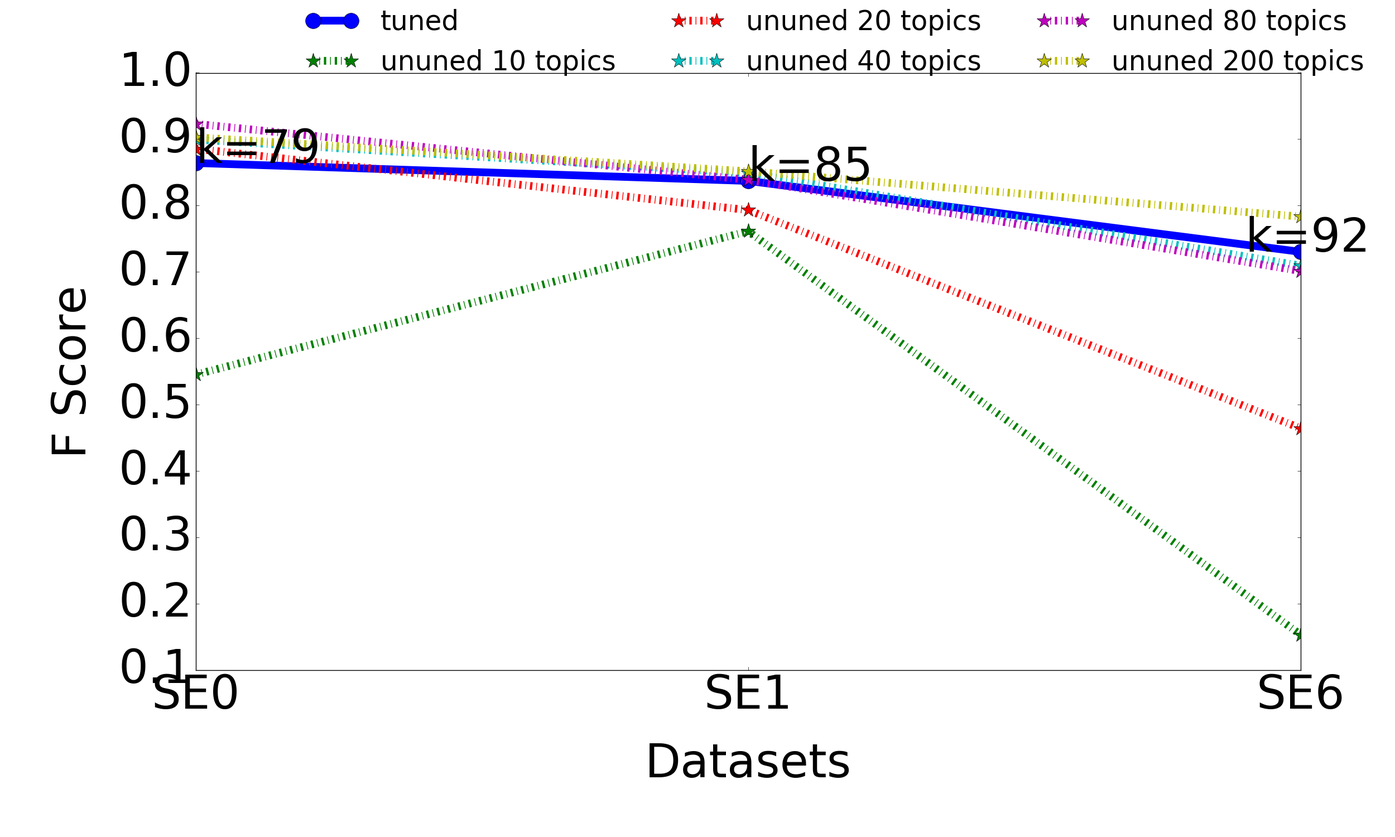
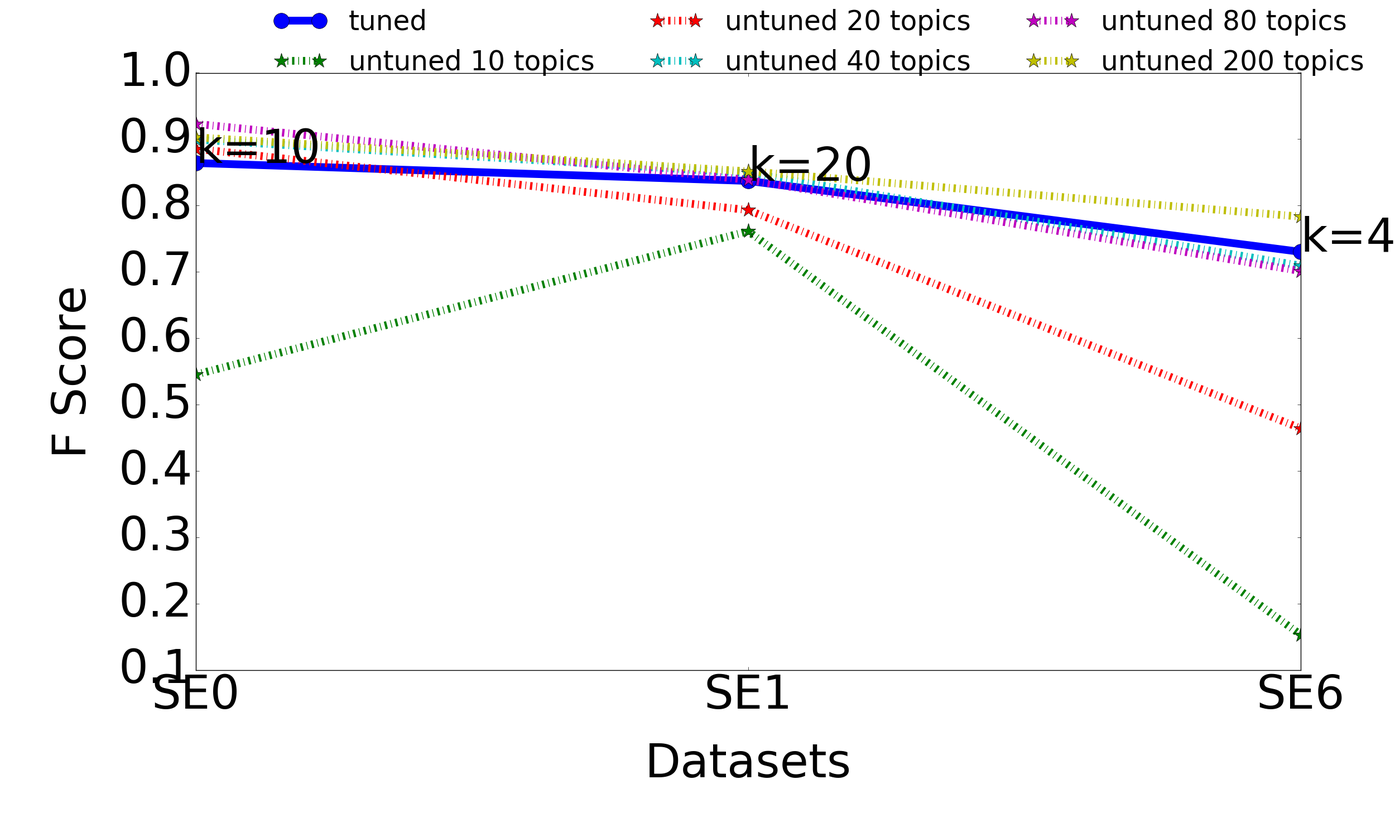
save

diff --git a/src/2016-09-05/draw.py b/src/2016-09-05/draw.py
@@ -15,7 +15,7 @@ import matplotlib.colors as colors
 
 if __name__ == '__main__':
 
-    fileB = ['SE0' ,'SE6']
+    fileB = ['SE0' ,'SE1','SE6']
     '''F_final1={}
     current_dic1={}
     para_dict1={}
@@ -35,32 +35,36 @@ if __name__ == '__main__':
                 #time1 = dict(time1.items() + time.items())
     print(F_final1)'''
     topics=[10,20,40,80,200]
-    words_tuned = {
-        'SE6': [0.46834345186470078, 0.46572934973637958, 0.46275197195442597, 0.4773735581188997, 0.47845206684256814,
-                0.46099912357581069, 0.46596858638743455, 0.48141592920353982, 0.46666666666666673, 0.4776119402985074,
-                0.48263888888888884, 0.46789797713280568, 0.46678635547576303, 0.46986899563318779, 0.46515679442508706,
-                0.47028423772609829, 0.47419072615923014, 0.46354166666666663, 0.47729296527159393, 0.46732318710832582,
-                0.48105726872246701, 0.46495119787045258, 0.46437994722955134, 0.47326906222611748,
-                0.46885813148788924],
-        'SE8': [0.054567502021018593, 0.072573839662447265, 0.07243572021011889, 0.073374096720400225,
-                0.073492286115007022, 0.04949421965317919, 0.072576177285318552, 0.074136478517270427,
-                0.073280721533258181, 0.07239057239057238, 0.055250863294738981, 0.073991655076495119,
-                0.073378839590443695, 0.072747313309451639, 0.071428571428571438, 0.055938386704499389,
-                0.048673376029277217, 0.07178631051752922, 0.073280721533258181, 0.072077028885832187,
-                0.070973107845855282, 0.073537604456824515, 0.048540145985401455, 0.055969398026978055,
-                0.07277856135401975],
-        'SE0': [0.41618497109826591, 0.87398373983739841, 0.90322580645161299, 0.41919686581782561, 0.90364025695931482,
-                0.42084942084942079, 0.42189054726368158, 0.41658440276406711, 0.42885375494071148, 0.42292490118577075,
-                0.90638297872340423, 0.91331923890063438, 0.41494591937069808, 0.41425818882466281, 0.41650294695481338,
-                0.41325536062378165, 0.9098712446351932, 0.42430278884462153, 0.41722488038277505, 0.8693877551020408,
-                0.42125984251968496, 0.42084562438544737, 0.42207163601161657, 0.42084562438544737,
-                0.90128755364806856]}
-    words_untuned={'SE6': {40: [0.42146341463414638, 0.46803377563329313, 0.51094890510948898, 0.24522845575477153, 0.41487279843444225, 0.50368188512518408, 0.41739130434782606, 0.50305250305250304, 0.41385948026948993, 0.48837209302325585, 0.41910331384015598, 0.42465753424657532, 0.42348411934552455, 0.49557522123893805, 0.49493487698986971, 0.48862275449101805, 0.48484848484848481, 0.49275362318840582, 0.48134777376654642, 0.50147492625368728, 0.48721071863581, 0.47058823529411764, 0.5, 0.42607003891050582, 0.47449584816132856], 80: [0.67787114845938368, 0.51891891891891895, 0.51592356687898089, 0.48695652173913045, 0.66946778711484589, 0.54421768707482998, 0.63684210526315788, 0.66019417475728148, 0.66104078762306606, 0.50448654037886342, 0.55981416957026708, 0.60280373831775702, 0.65909090909090906, 0.62015503875968991, 0.6732117812061712, 0.55693348365276207, 0.45367965367965374, 0.66760168302945311, 0.53679653679653683, 0.65811965811965811, 0.66855524079320117, 0.61712846347607053, 0.60869565217391308, 0.59079903147699764, 0.6629526462395543], 10: [0.41151685393258425, 0.39861591695501725, 0.40938166311300639, 0.40531097134870725, 0.39555863983344902, 0.41058655221745355, 0.40609840609840603, 0.1874414245548266, 0.40248104755341141, 0.39268121041520054, 0.40845070422535207, 0.3977746870653685, 0.40446304044630405, 0.40055826936496863, 0.19840510366826156, 0.40082930200414646, 0.41014799154334042, 0.41226818830242506, 0.39525139664804465, 0.40193370165745862, 0.40278745644599295, 0.40793201133144469, 0.40281690140845067, 0.40305767894371092, 0.40360610263522884], 20: [0.39292997960571041, 0.55601659751037347, 0.54777070063694266, 0.56076759061833692, 0.5547290116896918, 0.54621848739495804, 0.562962962962963, 0.55381400208986409, 0.55260361317747075, 0.39071038251366119, 0.54008438818565396, 0.39972714870395637, 0.55310199789695069, 0.3986577181208053, 0.55165069222577212, 0.55378061767838127, 0.39694656488549618, 0.54240837696335076, 0.39331103678929769, 0.55485232067510548, 0.39434724091520867, 0.55685441020191284, 0.55179704016913322, 0.55252100840336138, 0.55378061767838127], 200: [0.42392260334212833, 0.47835497835497837, 0.45245245245245247, 0.42745098039215684, 0.46558704453441296, 0.47473560517038776, 0.47034764826175868, 0.44379844961240317, 0.46123650637880281, 0.43371212121212122, 0.50454545454545452, 0.42379182156133832, 0.48979591836734693, 0.48504273504273504, 0.46243902439024392, 0.38839645447219978, 0.43856332703213613, 0.54145077720207258, 0.45914396887159536, 0.43024302430243022, 0.43364485981308409, 0.48079034028540069, 0.40158102766798426, 0.51388888888888895, 0.52071005917159763]}, 'SE0': {40: [0.58386683738796419, 0.71475409836065573, 0.70287539936102228, 0.72104404567699842, 0.707395498392283, 0.71197411003236255, 0.72374798061389345, 0.71869918699186985, 0.7126805778491172, 0.69887278582930756, 0.71497584541062797, 0.71474358974358987, 0.72131147540983609, 0.70418006430868163, 0.71082390953150243, 0.72025723472668812, 0.71052631578947367, 0.71728594507269794, 0.71197411003236244, 0.70588235294117652, 0.70399999999999996, 0.71175523349436398, 0.72577996715927751, 0.7142857142857143, 0.6820276497695853], 80: [0.87526427061310774, 0.63836477987421392, 0.85772357723577231, 0.6191860465116279, 0.5643564356435643, 0.64890282131661436, 0.64263322884012541, 0.87866108786610886, 0.54712041884816753, 0.89684210526315788, 0.65414710485133021, 0.64396284829721362, 0.66055045871559626, 0.88085106382978728, 0.63452566096423013, 0.63580246913580252, 0.65015479876160986, 0.88322717622080671, 0.66459627329192539, 0.88034188034188043, 0.88841201716738194, 0.6553323029366307, 0.64939024390243905, 0.86736842105263157, 0.87846481876332616], 10: [0.54461181923522595, 0.55188679245283012, 0.55041518386714106, 0.55714285714285705, 0.54823529411764704, 0.54166666666666663, 0.55410225921522005, 0.54716981132075471, 0.55213270142180093, 0.55726092089728452, 0.55791962174940901, 0.56763285024154586, 0.53624856156501721, 0.54652532391048292, 0.54460093896713613, 0.56428571428571428, 0.5512367491166078, 0.54332552693208425, 0.55188679245283012, 0.54161781946072673, 0.55648038049940551, 0.54714784633294533, 0.54906542056074759, 0.55303933253873661, 0.54652532391048292], 20: [0.90871369294605808, 0.92339544513457561, 0.91476091476091481, 0.91958762886597933, 0.91060291060291065, 0.91322314049586772, 0.91991786447638613, 0.90947368421052632, 0.92753623188405798, 0.90683229813664601, 0.92592592592592582, 0.90871369294605808, 0.92148760330578516, 0.90794979079497906, 0.91286307053941906, 0.91511387163561075, 0.91022964509394577, 0.91991786447638613, 0.91666666666666663, 0.91511387163561064, 0.91735537190082639, 0.9064449064449065, 0.91213389121338928, 0.92148760330578516, 0.91958762886597933], 200: [0.71454880294659295, 0.63897763578274758, 0.66786355475763015, 0.54107648725212454, 0.66666666666666663, 0.74296435272045036, 0.71755725190839692, 0.65259740259740251, 0.74003795066413669, 0.48285714285714287, 0.5270092226613966, 0.73904761904761895, 0.5785714285714284, 0.7078039927404719, 0.73069679849340874, 0.72595281306715065, 0.64214046822742477, 0.68092691622103385, 0.64965986394557818, 0.70242214532871972, 0.66901408450704225, 0.68100358422939067, 0.73189823874755378, 0.60124610591900307, 0.65217391304347838]}, 'SE8': {40: [0.073570168808264044, 0.1728395061728395, 0.17505168849069608, 0.17602217602217601, 0.072518129532383097, 0.14092140921409216, 0.17688022284122562, 0.18020477815699659, 0.07134010403765173, 0.17295813315030886, 0.071375093586224111, 0.17565698478561548, 0.17391304347826086, 0.089602139752591098, 0.068560235063663072, 0.17647058823529413, 0.089356110381077533, 0.17481073640743289, 0.090695330870003366, 0.11143210895583987, 0.1797752808988764, 0.073250820914372322, 0.17567567567567569, 0.094674556213017763, 0.17088174982911825], 80: [0.13603949533735601, 0.069522643818849456, 0.11437565582371459, 0.13718018508437671, 0.089624267493967597, 0.085696282293635781, 0.13538800220143093, 0.1396103896103896, 0.089237057220708446, 0.089773877826527168, 0.10470347648261759, 0.076281287246722285, 0.10999563509384548, 0.099884748367268544, 0.073403980356681317, 0.11436170212765957, 0.088994565217391311, 0.06812767984754646, 0.10683229813664596, 0.13631406761177753, 0.13633864760857614, 0.12022367194780989, 0.071816068199431676, 0.078253473206691238, 0.13670613562970937], 10: [0.046683046683046688, 0.087442472057856685, 0.086757990867579904, 0.086759469083845908, 0.046994202014037229, 0.046610814927646606, 0.086112010359339589, 0.047051540009286484, 0.088033909357678519, 0.087520259319286864, 0.046383887702166615, 0.087782509007533566, 0.046483366246392224, 0.04742109314857583, 0.087097822554436127, 0.087919244545750563, 0.088536504790221349, 0.086167800453514742, 0.046539923954372613, 0.046611468874578343, 0.046390965969784835, 0.086703332254933665, 0.087126137841352397, 0.046703296703296704, 0.047348193697156031], 20: [0.04895920066611157, 0.076314301865460718, 0.051201671891327065, 0.072408118486012057, 0.073971078976640722, 0.073784237003912789, 0.050615357947651242, 0.050580287545470295, 0.05133577789418544, 0.050953206239168117, 0.048333333333333332, 0.050086956521739126, 0.075146117450598376, 0.074301675977653636, 0.051862164984336927, 0.05090655509065551, 0.050379572118702552, 0.051077136900625437, 0.074299972276129736, 0.051183172655565295, 0.050611120674814943, 0.049039098740888, 0.073636874648679018, 0.05074365704286965, 0.074426412982652485], 200: [0.12862414338429098, 0.15091946734305642, 0.11196388261851016, 0.18125960061443933, 0.11300448430493273, 0.087811731647348082, 0.30013280212483401, 0.12654473554127532, 0.12802582033351262, 0.14993646759847523, 0.1006036217303823, 0.11263858093126386, 0.094290976058931858, 0.30664857530529172, 0.26923076923076922, 0.14977973568281938, 0.10752688172043012, 0.1426126640045636, 0.12603305785123967, 0.20050547598989049, 0.13638904415874792, 0.1519949335022166, 0.10549070471249458, 0.38974358974358975, 0.098552991787250688]}}
-    #topic topics
-    topic=[79, 61]
+    topics_tuned = {'SE6': [0.72972972972972971, 0.64516129032258063, 0.74884437596301989, 0.71988388969521033, 0.72834067547723946,
+                0.73235294117647054, 0.63262764632627633, 0.61032863849765251, 0.75384615384615383, 0.73590504451038585,
+                0.74809160305343514, 0.76470588235294124, 0.66491458607095921, 0.65703022339027595, 0.73025335320417284,
+                0.57297297297297312, 0.73076923076923084, 0.69262865090403336, 0.73529411764705888, 0.7332339791356185,
+                0.63546798029556639, 0.75308641975308643, 0.73076923076923084, 0.73798449612403105,
+                0.61737089201877937],'SE8': [0.075053995680345556, 0.075400054244643341, 0.086403215003348965, 0.076533483398987051,
+                0.091476091476091481, 0.091994382022471899, 0.087356321839080459, 0.068565910188314816,
+                0.086819754639823846, 0.060174832282984349, 0.07518796992481204, 0.072437708707937323,
+                0.068600252206809584, 0.093640810621942697, 0.086130462317922735, 0.065991044072590141,
+                0.09253945480631276, 0.069773115393998525, 0.087860496311200548, 0.080344332855093251,
+                0.080962158990906419, 0.088070982582977325, 0.075555555555555556, 0.095614665708123645,
+                0.064473970812459161],'SE3': [0.28073339344755033, 0.27932618683001531, 0.25964517037454238, 0.20441397043068354, 0.24214559386973181,
+                0.24915121441629667, 0.21047937569676697, 0.22713864306784659, 0.2780487804878049, 0.27744270205066346,
+                0.22196638268478008, 0.23403217942467092, 0.26239907727797002, 0.25255239118753359, 0.2532485485208737,
+                0.24524863316844572, 0.20922140060896041, 0.28114630467571639, 0.27066356228172295, 0.23884514435695539,
+                0.29409846755787417, 0.23057644110275685, 0.24443293630243398, 0.22089825847846012,
+                0.22730664013926882],'SE1': [0.83763277693474947, 0.82963520120346002, 0.82383419689119175, 0.8297470743676858, 0.8394408764639214,
+                0.84459717449408167, 0.82070240295748609, 0.82261640798226165, 0.84452975047984646, 0.83929931454683926,
+                0.83027351067815658, 0.84118541033434646, 0.80738595220854459, 0.83851402577710388, 0.83720930232558144,
+                0.80916030534351147, 0.84907120743034048, 0.82781954887218046, 0.83434190620272319, 0.84024114544084394,
+                0.83712121212121215, 0.84502698535080956, 0.82348596750369274, 0.84461538461538455,
+                0.82418812989921608],'SE0': [0.87346938775510208, 0.86652977412731003, 0.76338514680483582, 0.76842105263157889, 0.77217391304347827,
+                0.86938775510204069, 0.87221095334685594, 0.86409736308316432, 0.78928571428571437, 0.74036850921273045,
+                0.86868686868686884, 0.87346938775510197, 0.78014184397163122, 0.76223776223776218, 0.88391038696537683,
+                0.87755102040816335, 0.77385159010600724, 0.77680140597539538, 0.76573426573426573, 0.8688524590163933,
+                0.68404907975460127, 0.87603305785123964, 0.74581939799331098, 0.87242798353909468,
+                0.86761710794297353]}
 
-    # topic words
-    topic = [79, 61]
+    topics_untuned={'SE6': {40: [0.6820566631689402, 0.70549450549450543, 0.67432150313152406, 0.73721759809750309, 0.7302325581395348, 0.69555796316359686, 0.70281995661605201, 0.69621621621621621, 0.68220338983050854, 0.76052948255114317, 0.72389791183294661, 0.71266968325791857, 0.70472008781558726, 0.70021881838074396, 0.68067226890756305, 0.71829405162738491, 0.64822134387351782, 0.71557562076749437, 0.71140939597315422, 0.71927846674182627, 0.70939226519337018, 0.71493212669683248, 0.72789896670493692, 0.67785939139559281, 0.7235023041474653], 80: [0.68640350877192979, 0.72055427251732118, 0.69222343921139096, 0.73278879813302211, 0.69680264608599785, 0.71662763466042156, 0.71331828442437928, 0.7121387283236994, 0.67785234899328861, 0.69706840390879476, 0.68729281767955797, 0.68722466960352424, 0.7406513872135102, 0.72517321016166281, 0.70132743362831862, 0.71526195899772216, 0.7057471264367815, 0.6860215053763441, 0.70191226096737902, 0.70996640537514, 0.69273743016759781, 0.69230769230769218, 0.69956140350877194, 0.67089947089947077, 0.71493212669683248], 10: [0.14631522323830018, 0.20015396458814474, 0.15320796460176989, 0.15145736856442388, 0.20491803278688525, 0.14994425863991082, 0.14587332053742802, 0.13637341363734135, 0.21167576648467032, 0.15484219045049905, 0.15697346132128739, 0.20963968179691159, 0.15342615342615343, 0.16020821283979178, 0.15039649986327591, 0.14745529573590097, 0.15066630405221651, 0.16492949110974864, 0.15243243243243246, 0.14830508474576271, 0.15172786177105835, 0.2077125328659071, 0.1586851799376594, 0.20342771982116242, 0.14935949850095392], 20: [0.49352890422778262, 0.45054151624548738, 0.46042120551924481, 0.45207439198855509, 0.46412213740458019, 0.42010309278350516, 0.41585445094217022, 0.48675496688741715, 0.48784440842787685, 0.47887323943661969, 0.46334310850439875, 0.42289562289562288, 0.45199409158050219, 0.48513302034428796, 0.49238578680203049, 0.43258042436687194, 0.44922164566345441, 0.49306122448979595, 0.48995983935742965, 0.46431254695717505, 0.45434938892882815, 0.4756756756756757, 0.4846029173419773, 0.46539027982326953, 0.46785437645236255], 200: [0.79276773296244796, 0.77656675749318804, 0.78295605858854855, 0.74634146341463414, 0.77154582763337887, 0.783448275862069, 0.78335724533715934, 0.78869448183041724, 0.8032128514056226, 0.76227390180878551, 0.76000000000000001, 0.7857142857142857, 0.78639455782312928, 0.78779069767441867, 0.75634517766497467, 0.77823129251700685, 0.78877005347593576, 0.78087649402390447, 0.77835051546391754, 0.78821879382889193, 0.74250000000000005, 0.78848920863309346, 0.77353689567430017, 0.80218281036834926, 0.79551820728291323]}, 'SE8': {40: [0.1583949313621964, 0.1659988551803091, 0.18598559266535691, 0.18181818181818185, 0.18904109589041099, 0.19665271966527195, 0.15153035624686403, 0.18656229615133724, 0.19021364576154376, 0.14984709480122327, 0.18950238582140425, 0.14878542510121459, 0.1812538795779019, 0.15803814713896458, 0.17974683544303796, 0.13209219858156027, 0.1819322459222083, 0.16066481994459839, 0.15832875206157229, 0.2391713747645951, 0.17696969696969694, 0.16410256410256407, 0.17794486215538846, 0.18320610687022904, 0.17729204614450514], 80: [0.14917127071823202, 0.13107445385644226, 0.15524079320113315, 0.15666094911377931, 0.12626931567328917, 0.11769480519480519, 0.14293221229637412, 0.14764397905759161, 0.1628588166373755, 0.13457076566125289, 0.14670184696569921, 0.1359773371104816, 0.16806722689075629, 0.11812627291242363, 0.13434247871333962, 0.16775728732897083, 0.12489451476793248, 0.1242603550295858, 0.17424727738629084, 0.13169114163903364, 0.13580246913580249, 0.14421052631578948, 0.12859712230215828, 0.14278429372768994, 0.14570230607966458], 10: [0.09903121636167922, 0.076078221269756233, 0.07297367735209799, 0.067651262505955212, 0.068424803991446889, 0.079190751445086707, 0.054779206260480717, 0.077368421052631572, 0.098721590909090912, 0.097544338335607092, 0.060501296456352625, 0.09293193717277487, 0.10235026535253981, 0.089680589680589673, 0.10087719298245613, 0.094545454545454544, 0.090346534653465344, 0.098715348208248815, 0.10235934664246824, 0.080215504340017965, 0.091900826446280989, 0.094164456233421748, 0.050203527815468107, 0.095759233926128604, 0.097375690607734808], 20: [0.11910013233348039, 0.092686002522068101, 0.12303422756706753, 0.080521689821377931, 0.115736885928393, 0.11878574571051474, 0.1115506329113924, 0.086820737039350407, 0.10261854210898796, 0.11229508196721313, 0.11471321695760597, 0.077783995523223293, 0.11340659340659341, 0.11729706757331065, 0.10454217736121124, 0.1154964686331533, 0.095036958817317857, 0.1047197640117994, 0.12363636363636363, 0.11003487020534677, 0.10440835266821345, 0.10779816513761467, 0.11566858080393766, 0.071481390189795421, 0.12197309417040361], 200: [0.16203703703703706, 0.14285714285714285, 0.17368762151652622, 0.15393073117097306, 0.17379117028731608, 0.14601542416452443, 0.1534025374855825, 0.16626213592233011, 0.16965944272445818, 0.17127799736495392, 0.16118047673098754, 0.1806981519507187, 0.15138121546961325, 0.1492063492063492, 0.16187050359712229, 0.22731439046746105, 0.16397366846199882, 0.16579710144927534, 0.17510259917920654, 0.14411612234318297, 0.1488569909622541, 0.16431924882629109, 0.16688741721854305, 0.17731421121251631, 0.15341229554427521]}, 'SE3': {40: [0.26710275279367679, 0.29519379844961235, 0.29449345908122909, 0.36909527622097682, 0.2535649468498834, 0.31049041896719715, 0.3002832861189802, 0.31761112996267393, 0.25742574257425743, 0.30059617194854094, 0.27452085682074406, 0.32551817872918792, 0.24841571609632443, 0.33738384560400286, 0.33170391061452509, 0.28689492325855964, 0.33568406205923834, 0.25622022233986236, 0.30695596681557119, 0.31603459747172324, 0.24855925833124526, 0.29663608562691129, 0.30520304568527917, 0.36202920830130669, 0.27908326080649842], 80: [0.38968253968253963, 0.42549450549450546, 0.4570886676149834, 0.48800408371618181, 0.50454302512025651, 0.48678861788617883, 0.44454843238184377, 0.47548291233283801, 0.43154630039875935, 0.42992338891392523, 0.4572769953051643, 0.46444121915820025, 0.49282786885245905, 0.39583333333333331, 0.50131095962244354, 0.48740359897172231, 0.42001710863986319, 0.50562399571505079, 0.4613180515759312, 0.39065646395489328, 0.47409579667644186, 0.40064882400648827, 0.45895343254920784, 0.46531791907514447, 0.44788732394366193], 10: [0.13289219740832645, 0.13648217907852797, 0.16769856713249603, 0.12251071338542978, 0.17375499818247911, 0.12345679012345678, 0.1750317086428701, 0.16957153231663033, 0.15136320902538392, 0.17396041401852189, 0.12728468113083496, 0.12154420921544209, 0.19707565162110616, 0.18286592393392243, 0.12080536912751678, 0.13456352022711143, 0.19020753576465846, 0.12971382722653116, 0.13098912897597642, 0.15903775476110923, 0.14060216311020168, 0.12000998003992015, 0.13893805309734511, 0.18467583497053042, 0.14306741242272591], 20: [0.28824427480916032, 0.24770173646578139, 0.24452191235059764, 0.30504148053605612, 0.25507246376811593, 0.23122482823975363, 0.25328862522568996, 0.3061291379875451, 0.25873015873015875, 0.24099999999999999, 0.24601366742596814, 0.21911111111111112, 0.27462014631401238, 0.31679129843643777, 0.2591380250954719, 0.24070021881838072, 0.28537170263788963, 0.25051440329218111, 0.2280130293159609, 0.29320024953212726, 0.26951931091969988, 0.25976825653462676, 0.27370812038614423, 0.27393310265282583, 0.25444096133751309], 200: [0.46631119728550652, 0.48654139156932447, 0.52613827993254636, 0.51707317073170733, 0.49947643979057588, 0.46005774783445624, 0.5034519383961763, 0.45739046701974012, 0.52159650082012021, 0.51769911504424782, 0.49766233766233764, 0.50236966824644547, 0.50556438791732905, 0.50638297872340432, 0.55477031802120136, 0.53137365743357823, 0.51282051282051277, 0.45330830595964333, 0.55772646536412074, 0.48093543467208949, 0.48275862068965519, 0.46358876725368864, 0.55319148936170215, 0.530093870789619, 0.44434180138568136]}, 'SE1': {40: [0.83875794986906105, 0.844106463878327, 0.86416861826697899, 0.83599851245816281, 0.85013415101571488, 0.83958020989505244, 0.86411149825783973, 0.85059228123805874, 0.82648908620051798, 0.86213592233009695, 0.86013173188686554, 0.82062454611474211, 0.84084084084084076, 0.87932421560740137, 0.84869169510807718, 0.84012066365007532, 0.85009487666034156, 0.84885496183206099, 0.86564825695260472, 0.83960843373493976, 0.84318181818181814, 0.84940907357987039, 0.84551620195930666, 0.85593220338983056, 0.86370716510903423], 80: [0.84056857472147528, 0.7985714285714286, 0.84937888198757749, 0.84302546560243263, 0.84371417653802072, 0.83993902439024393, 0.82195845697329384, 0.83403281190385348, 0.84726000777302757, 0.82832777159807203, 0.84482094724682322, 0.83870967741935487, 0.82725241995532395, 0.83579825559347742, 0.83547169811320754, 0.849441663457836, 0.83978739559605153, 0.85103072734344609, 0.84724894190073097, 0.8252427184466018, 0.85147744945567649, 0.83756152972358955, 0.8295412159641925, 0.83472327520849121, 0.8308157099697886], 10: [0.7677044132740336, 0.74499507712504098, 0.75775978407557354, 0.75871313672922258, 0.75717662951705511, 0.74366567949983542, 0.76241973639743155, 0.7487553932957185, 0.77178423236514526, 0.77033985581874365, 0.7612244897959185, 0.76322930800542732, 0.73018928456849552, 0.77316735822959892, 0.76190476190476186, 0.77493074792243777, 0.74424720578566739, 0.76494565217391308, 0.75275275275275277, 0.73974401050213334, 0.79472558802565929, 0.73026103770544637, 0.77129120879120883, 0.7284427284427285, 0.7694938440492477], 20: [0.78556412053258584, 0.775425199583478, 0.82983508245877058, 0.78704681450193592, 0.79036827195467418, 0.80874316939890711, 0.79294532627865955, 0.80404186214363049, 0.77839335180055402, 0.81429624170965353, 0.79913451135953839, 0.78751753155680215, 0.79784560143626571, 0.80759401241328943, 0.76416694944010866, 0.82620022329735754, 0.79194630872483229, 0.78700105969622036, 0.80215053763440858, 0.7931648273406906, 0.78538812785388146, 0.80739934711643091, 0.79123984457788765, 0.80085959885386815, 0.81942899517982937], 200: [0.8548895899053629, 0.84153846153846146, 0.84206471494607082, 0.860759493670886, 0.85296442687747043, 0.84523350057892699, 0.85579196217494091, 0.85154719937328638, 0.846839860411012, 0.84729835552075183, 0.86473429951690817, 0.84081319524357501, 0.84841453982985315, 0.85217391304347834, 0.84701348747591521, 0.85916601101494894, 0.85714285714285721, 0.84410058027079304, 0.85635359116022103, 0.8475232198142415, 0.85522151898734178, 0.84109272797229706, 0.83944954128440363, 0.86112216474333458, 0.85930047694753575]}, 'SE0': {40: [0.89142857142857146, 0.90466531440162268, 0.88073394495412838, 0.89230769230769225, 0.90766208251473479, 0.89788053949903668, 0.90196078431372551, 0.90909090909090906, 0.89980353634577603, 0.89393939393939392, 0.89940828402366857, 0.87615526802218113, 0.88931297709923651, 0.90204081632653066, 0.90448343079922022, 0.87476635514018686, 0.91242362525458243, 0.89443378119001915, 0.89961389961389959, 0.89312977099236646, 0.89883268482490275, 0.91015625, 0.90058479532163749, 0.90476190476190477, 0.88636363636363624], 80: [0.92024539877300615, 0.92050209205020916, 0.93333333333333335, 0.9243353783231083, 0.91944990176817298, 0.92338709677419351, 0.91599999999999993, 0.9218106995884775, 0.9218106995884775, 0.92842535787321068, 0.93762575452716301, 0.92215568862275454, 0.9173553719008265, 0.92622950819672134, 0.92307692307692313, 0.92916666666666659, 0.91097308488612827, 0.93041749502982107, 0.92148760330578516, 0.92929292929292928, 0.91732283464566933, 0.92525252525252522, 0.93167701863354035, 0.92813141683778233, 0.91322314049586784], 10: [0.54152445961319684, 0.57402597402597411, 0.53917050691244239, 0.5512367491166078, 0.52048726467331119, 0.52727272727272723, 0.56029232643118143, 0.55882352941176472, 0.54441913439635536, 0.54524089306698009, 0.55339805825242716, 0.52631578947368418, 0.55421686746987953, 0.54651162790697672, 0.54524089306698009, 0.5423728813559322, 0.54375729288214703, 0.52559726962457343, 0.55555555555555558, 0.54396248534583824, 0.56000000000000005, 0.5245535714285714, 0.55474452554744524, 0.54800936768149877, 0.54004576659038894], 20: [0.84135472370766495, 0.85607476635514013, 0.90180360721442887, 0.90135396518375244, 0.87850467289719625, 0.8529945553539019, 0.91338582677165348, 0.83571428571428563, 0.88345864661654139, 0.89105058365758749, 0.84999999999999998, 0.85662431941923778, 0.90272373540856032, 0.89959839357429716, 0.89575289575289574, 0.89615384615384619, 0.88555347091932468, 0.88122605363984674, 0.89534883720930236, 0.88380952380952371, 0.89305816135084426, 0.87020109689213898, 0.89243027888446214, 0.89628180039138938, 0.87360594795539026], 200: [0.89277899343544864, 0.92372881355932202, 0.90280777537796975, 0.9098712446351932, 0.90831556503198285, 0.90638297872340423, 0.89699570815450647, 0.90196078431372551, 0.90752688172042995, 0.89565217391304353, 0.90712742980561567, 0.90086206896551724, 0.89427312775330403, 0.9243697478991596, 0.89277899343544864, 0.90517241379310343, 0.91452991452991439, 0.88198757763975155, 0.88986784140969166, 0.89177489177489178, 0.91341991341991347, 0.88986784140969166, 0.92177589852008457, 0.90598290598290598, 0.89655172413793105]}}
+    topic=[79, 85, 92]
 
     font = {
         'size': 60}
@@ -75,17 +79,17 @@ if __name__ == '__main__':
     #l=['F3CR7P30','F7CR3P30','F3CR7P10','F7CR3P10']
     Y_tuned = []
     for file1 in fileB:
-        Y_tuned.append(np.median(words_tuned[file1]))
+        Y_tuned.append(np.median(topics_tuned[file1]))
     plt.plot(X, Y_tuned, marker='o', markersize=20, label='tuned')
-    x=[0,1.9]
+    x=[0,1.0,2]
     for i in range(len(fileB)):
-        plt.text(x[i], Y_tuned[i], 'k='+str(topic[i]))
+        plt.text(x[i], Y_tuned[i], 'k='+str(topics[i]))
     for top in topics:
         Y_untuned=[]
         for file1 in fileB:
-            Y_untuned.append(np.median(words_untuned[file1][top]))
+            Y_untuned.append(np.median(topics_untuned[file1][top]))
             #print(Y_tuned)
-        plt.plot(X, Y_untuned,marker='*',linestyle="-.", markersize=20, label='ununed '+str(top)+' topics')
+        plt.plot(X, Y_untuned,marker='*',linestyle="-.", markersize=20, label='untuned '+str(top)+' topics')
 
         #plt.ytext(0.04, 0.5, va='center', rotation='vertical', fontsize=11)
         #plt.text(0.04, 0.5,"Rn (Raw Score)", labelpad=100)
@@ -93,4 +97,4 @@ if __name__ == '__main__':
     plt.ylabel("F Score", labelpad=30)
     plt.xlabel("Datasets", labelpad=30)
     plt.legend(bbox_to_anchor=(1.07, 1.13), loc=1, ncol=3, borderaxespad=0.1)
-    plt.savefig("words.png")
+    plt.savefig("topics.png")
